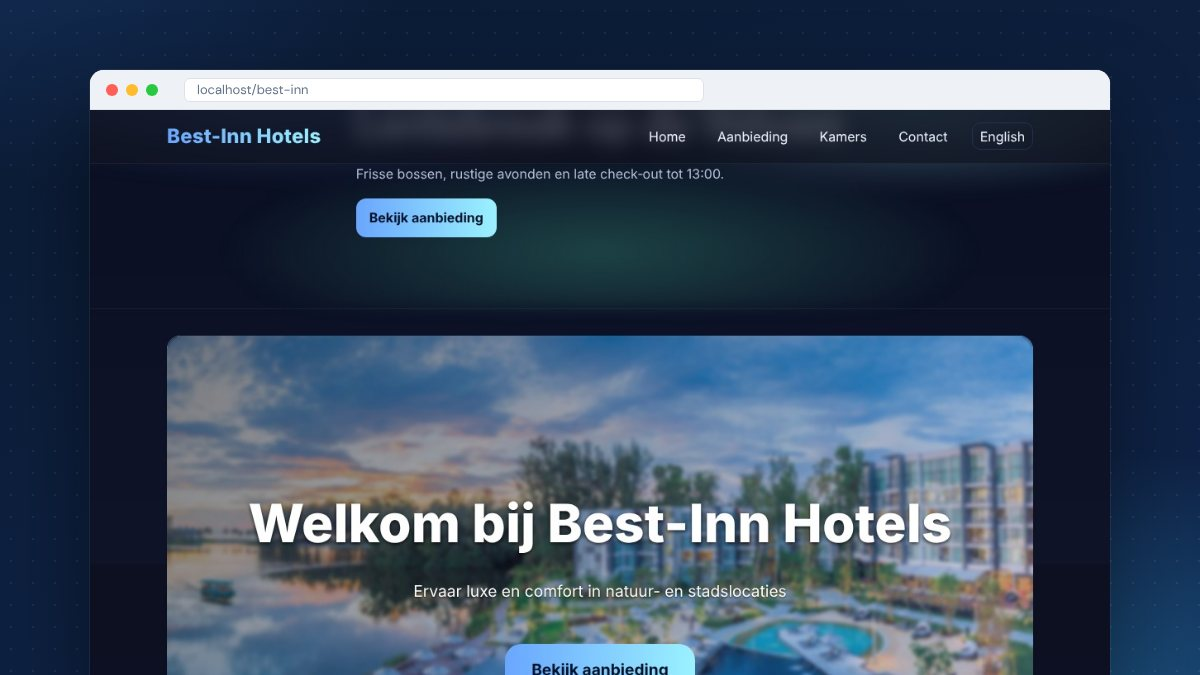
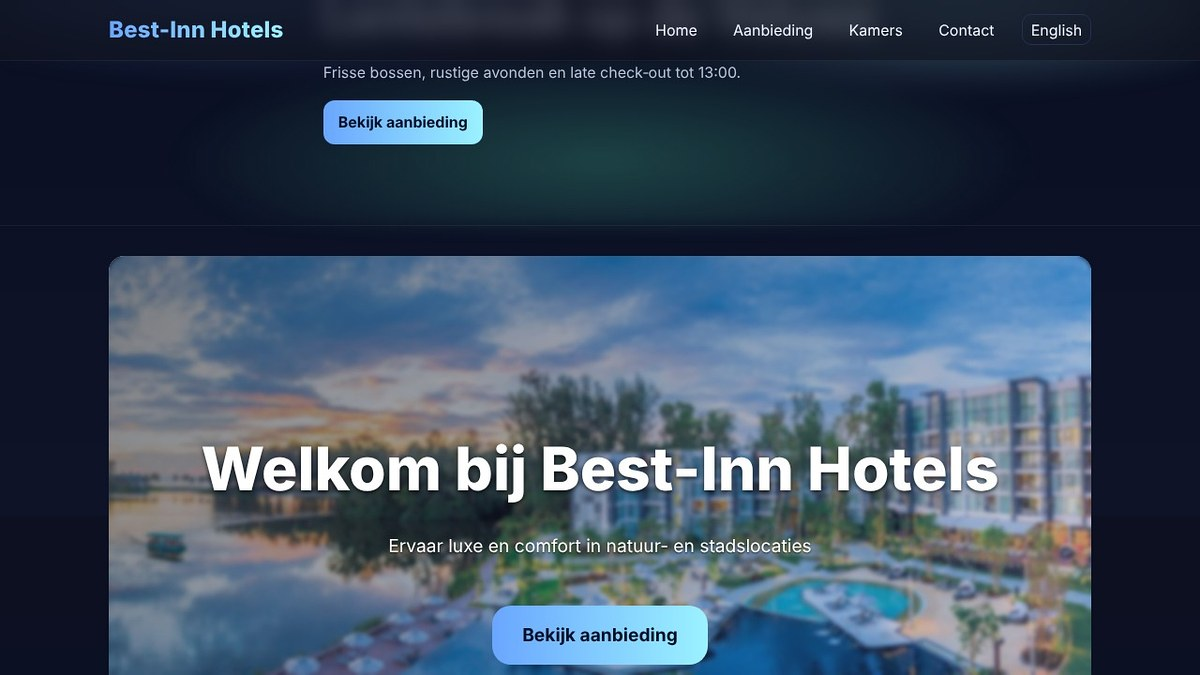
Frameless project images with photo finish; refresh link preview image
Claude-Session: https://claude.ai/code/session_016WafrcjJpGRBNmJS2kV5YX

diff --git a/css/style.css b/css/style.css
@@ -1567,3 +1567,21 @@ form .button:disabled { opacity: 0.6; cursor: wait; }
     .lang-switch { position: absolute; top: 12px; right: 0; }
     .lang-switch button { min-width: 34px; height: 28px; padding: 0 8px; }
 }
+
+/* ---------- Project images: polished photo finish (no browser chrome) ---------- */
+.project-thumb::after,
+.ring-item::after,
+.deck-card::after {
+    content: "";
+    position: absolute;
+    inset: 0;
+    top: 0; right: 0; bottom: 0; left: 0;
+    pointer-events: none;
+    border-radius: inherit;
+    background:
+        linear-gradient(180deg, rgba(255, 255, 255, 0.08) 0%, transparent 28%),
+        linear-gradient(0deg, rgba(7, 13, 36, 0.45) 0%, transparent 40%);
+    box-shadow: inset 0 0 0 1px rgba(255, 255, 255, 0.08);
+}
+.ring-item span { z-index: 2; }
+.deck-card { position: absolute; }

diff --git a/contact.html b/contact.html
@@ -29,7 +29,7 @@
     <link rel="preconnect" href="https://fonts.googleapis.com">
     <link rel="preconnect" href="https://fonts.gstatic.com" crossorigin>
     <link href="https://fonts.googleapis.com/css2?family=Bricolage+Grotesque:opsz,wght@12..96,500..800&family=Instrument+Sans:wght@400..700&display=swap" rel="stylesheet">
-    <link rel="stylesheet" href="css/style.css?v=14">
+    <link rel="stylesheet" href="css/style.css?v=15">
     <script src="js/main.js?v=11" defer></script>
     <script src="js/bughunt.js?v=3" defer></script>
     <script src="js/i18n.js?v=1" defer></script>

diff --git a/index.html b/index.html
@@ -29,7 +29,7 @@
     <link rel="preconnect" href="https://fonts.googleapis.com">
     <link rel="preconnect" href="https://fonts.gstatic.com" crossorigin>
     <link href="https://fonts.googleapis.com/css2?family=Bricolage+Grotesque:opsz,wght@12..96,500..800&family=Instrument+Sans:wght@400..700&display=swap" rel="stylesheet">
-    <link rel="stylesheet" href="css/style.css?v=14">
+    <link rel="stylesheet" href="css/style.css?v=15">
     <script src="js/main.js?v=11" defer></script>
     <script src="js/bughunt.js?v=3" defer></script>
     <script src="js/i18n.js?v=1" defer></script>

diff --git a/portofolio.html b/portofolio.html
@@ -29,7 +29,7 @@
     <link rel="preconnect" href="https://fonts.googleapis.com">
     <link rel="preconnect" href="https://fonts.gstatic.com" crossorigin>
     <link href="https://fonts.googleapis.com/css2?family=Bricolage+Grotesque:opsz,wght@12..96,500..800&family=Instrument+Sans:wght@400..700&display=swap" rel="stylesheet">
-    <link rel="stylesheet" href="css/style.css?v=14">
+    <link rel="stylesheet" href="css/style.css?v=15">
     <script src="js/main.js?v=11" defer></script>
     <script src="js/bughunt.js?v=3" defer></script>
     <script src="js/i18n.js?v=1" defer></script>

diff --git a/skills.html b/skills.html
@@ -29,7 +29,7 @@
     <link rel="preconnect" href="https://fonts.googleapis.com">
     <link rel="preconnect" href="https://fonts.gstatic.com" crossorigin>
     <link href="https://fonts.googleapis.com/css2?family=Bricolage+Grotesque:opsz,wght@12..96,500..800&family=Instrument+Sans:wght@400..700&display=swap" rel="stylesheet">
-    <link rel="stylesheet" href="css/style.css?v=14">
+    <link rel="stylesheet" href="css/style.css?v=15">
     <script src="js/main.js?v=11" defer></script>
     <script src="js/bughunt.js?v=3" defer></script>
     <script src="js/i18n.js?v=1" defer></script>
